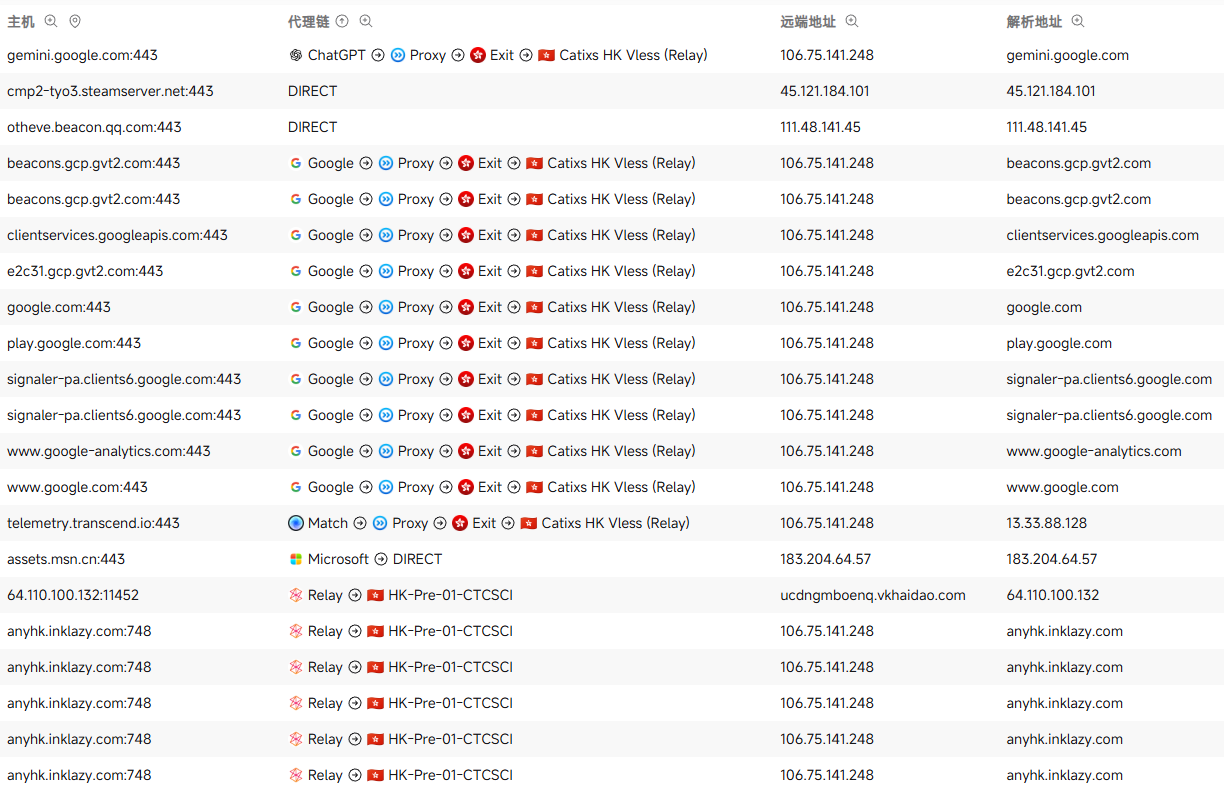
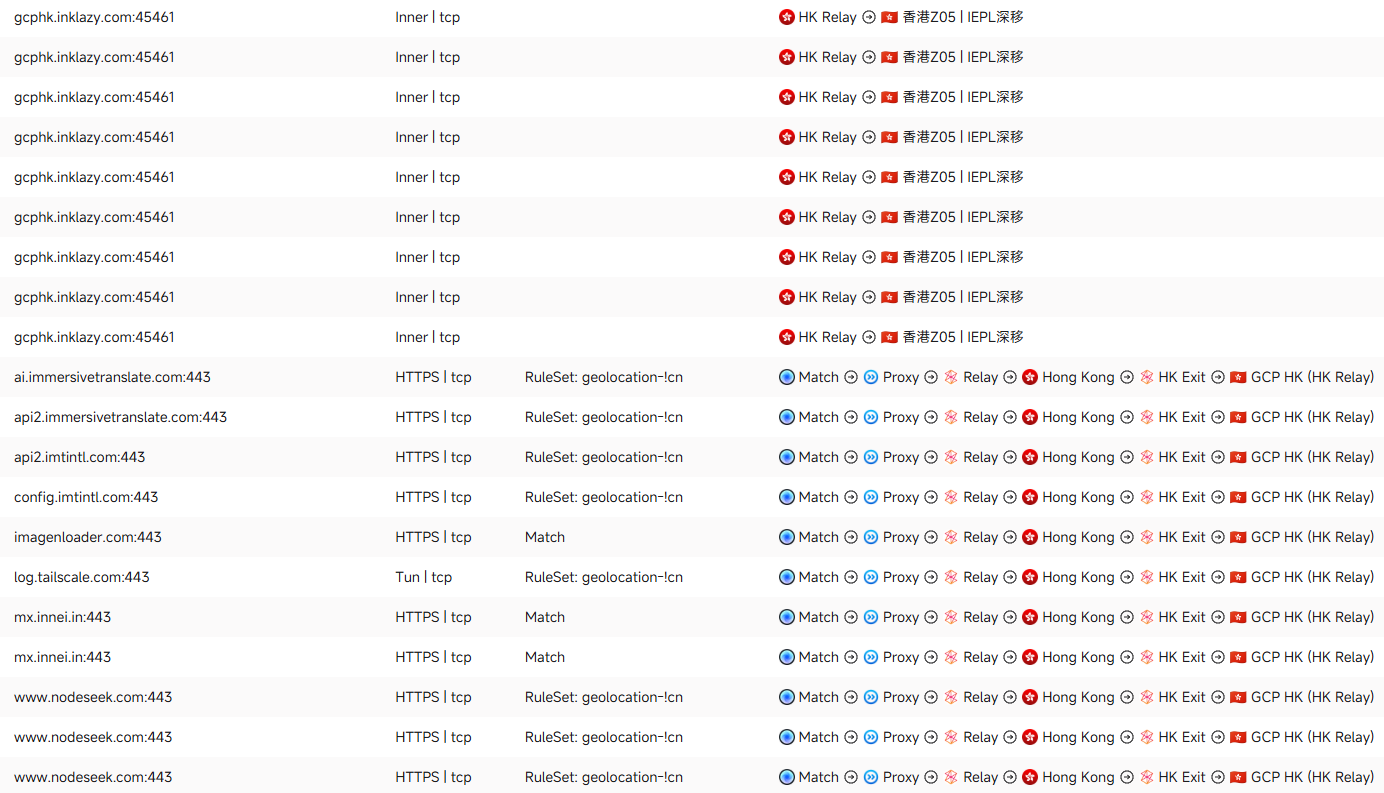
Update blog content

diff --git a/src/content/posts/my-vps.md b/src/content/posts/my-vps.md
@@ -11,7 +11,7 @@ draft: false
 ## 🛠️ 服务器基础配置
 
 :::note[硬件与环境]
-* **CPU**: AMD EPYC 9575F 64-Core Processor (x2) 
+* **CPU**: AMD Ryzen 9 9950X 16-Core Processor (x8) 
 * **内存**: 4GB DDR5 6400mhz
 * **OS**: **Debian 13**
 
@@ -49,6 +49,9 @@ draft: false
 - [x] **rustdesk**
   > 开源远程控制，支持自建服务器
   ::github{repo="rustdesk/rustdesk"}
+- [x] **nexus terminal**
+  > 一款现代化、功能丰富的 Web SSH / RDP / VNC 客户端
+  ::github{repo="Heavrnl/nexus-terminal"}
 
 ---
 